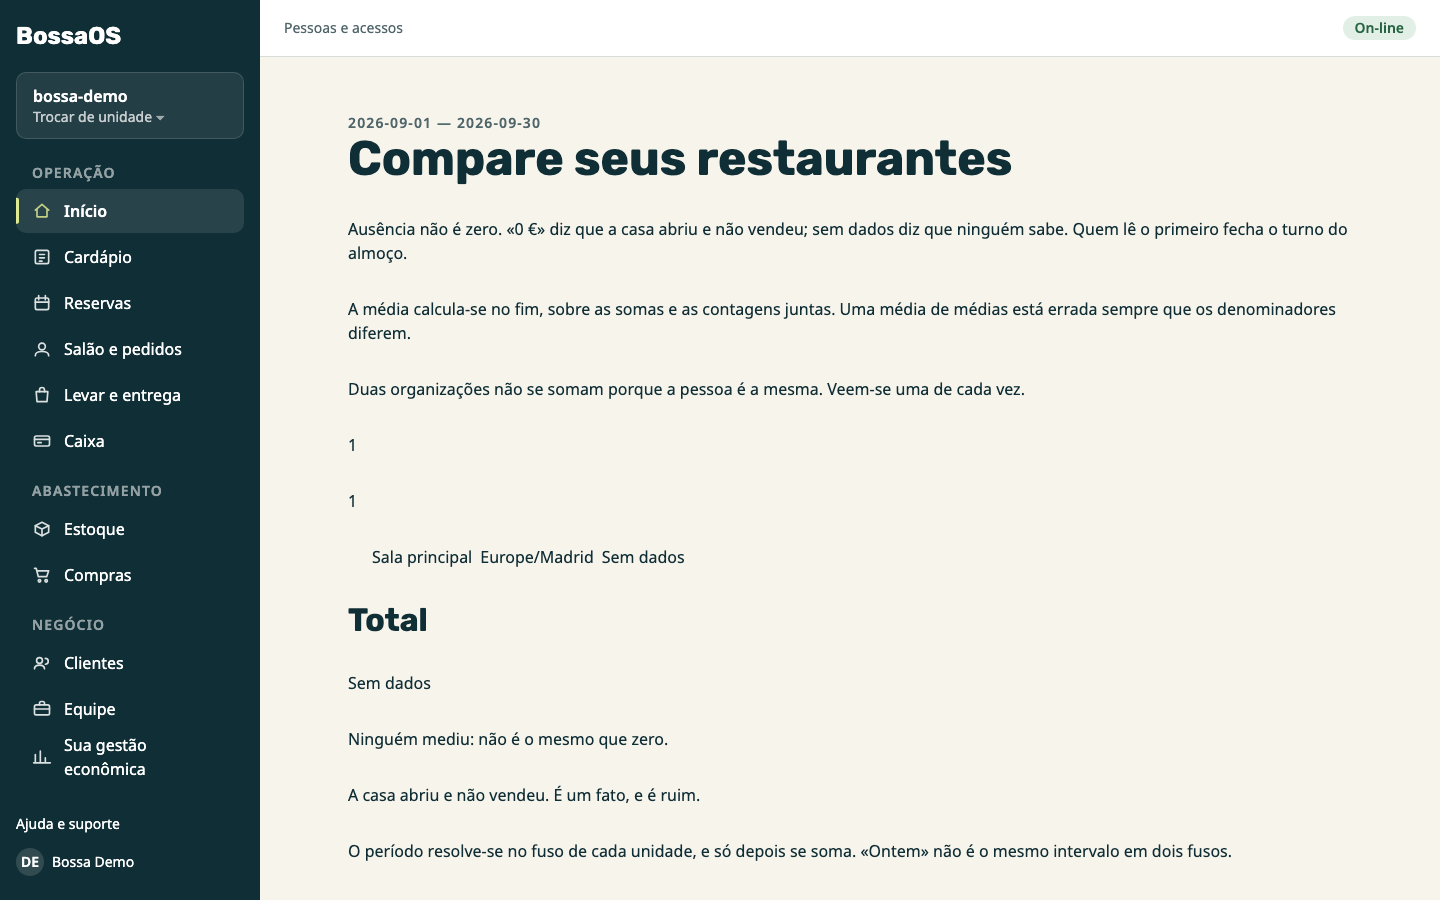
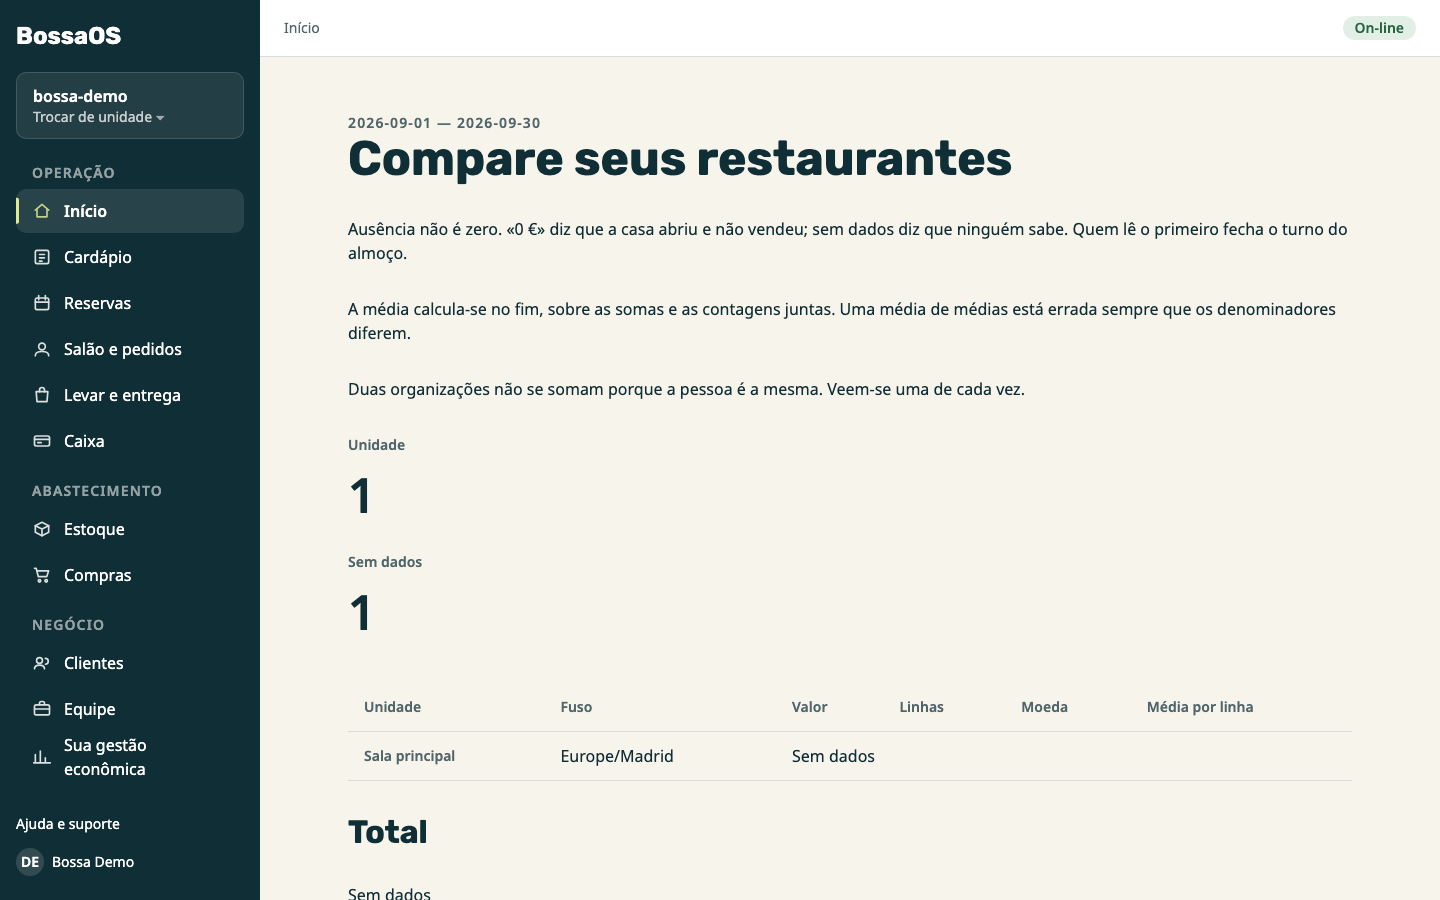
Auditoria (6): a area de conteudo passa a usar o que a casa ja tinha
Nada aqui e novo. O `.bo-tabela`, o `.bo-estado__numero` e o `.bo-estado__factos`
ja existem e ja sao usados noutros ecras; os rotulos `fuso`, `linhas`, `media` e
`moeda` ja estavam no dicionario. O que faltava era CHAMAR.

A tela mostrava nove `<p>` e `<span>` sem rotulo: «1», «1», e «Sala principal
Europe/Madrid Sin datos» em texto corrido. Passa a uma tabela com seis colunas
nomeadas — Unidad, Huso, Importe, Lineas, Moneda, Media por linea — e os totais
em factos com rotulo.

E a distincao que a regua poe em primeiro lugar sobrevive a mudanca: a linha sem
dados atravessa as quatro colunas com a frase inteira, em vez de as encher de
tracos que se leem como zeros. Ausencia e zero medido continuam a escrever-se
diferente.

## A migalha

Estava fixa em `m.pessoas.titulo` no layout: dizia «Personas y accesos» em TODAS
as rotas da organizacao, incluindo onde nao ha pessoa nenhuma. Um rotulo fixo num
sitio que existe para dizer onde se esta e pior do que nao haver rotulo — o vazio
nao engana ninguem.

Sai agora do mesmo sitio de onde sai o item aceso: a rota. Quando nenhum item
casa, cai no que o chamador passou.

  raiz       migalha «Inicio»
  catalogo   migalha «Catálogo»

Medido tambem: 1 tabela com os seis cabecalhos e 5 numeros com rotulo, onde
antes eram zero de cada.

Nao assino a minha revisao.

Claude-Session: https://claude.ai/code/session_01NBLb4xmcXVSfngcepm5hz6

diff --git a/apps/web/app/[idioma]/app/[orgSlug]/page.tsx b/apps/web/app/[idioma]/app/[orgSlug]/page.tsx
@@ -38,39 +38,76 @@ export default async function InicioDaOrganizacao({
       <p data-teste="denominador">{t.denominador}</p>
       <p data-teste="nao-consolida">{t.naoConsolida}</p>
 
-      <p data-teste="quantas-unidades">{b.unidades.length}</p>
-      <p data-teste="quantas-sem-dados">{semDados.length}</p>
+      {/* ── Os números com o nome do que são ────────────────────────────
+          Aqui estavam nove `<p>` e `<span>` sem rótulo: a tela mostrava «1»,
+          «1» e «Sala principal Europe/Madrid Sin datos» em texto corrido. Os
+          rótulos existiam no dicionário — `fuso`, `linhas`, `media`, `moeda` —
+          e ninguém os chamava, e a `.bo-tabela` e o `.bo-estado__numero` já são
+          usados noutros ecrãs. Nada disto é novo: o que faltava era usar. */}
+      <dl className="bo-estado__factos">
+        <div>
+          <dt className="bo-estado__rotulo">{t.unidade}</dt>
+          <dd className="bo-estado__numero" data-teste="quantas-unidades">{b.unidades.length}</dd>
+        </div>
+        <div>
+          <dt className="bo-estado__rotulo">{t.semDados}</dt>
+          <dd className="bo-estado__numero" data-teste="quantas-sem-dados">{semDados.length}</dd>
+        </div>
+      </dl>
 
-      <ul className="bo-lista bo-lista--colunas" data-teste="unidades">
-        {b.unidades.map((u) => (
-          <li key={u.locationId}>
-            <span data-teste="unidade">{u.nome}</span>
-            <span data-teste="fuso">{u.fuso}</span>
-            {/* ── Ausência e zero medido escrevem-se DIFERENTE ───────────
-                É o aceite que a régua põe em primeiro lugar: quem lê «0 €»
-                fecha o turno de almoço; se o que lá estava era «sem dados»,
-                fechou-o por engano. */}
-            {u.agregado.medido ? (
-              <>
-                <span data-teste="medido">{String(u.agregado.valor.somaMenor)}</span>
-                <span data-teste="linhas">{u.agregado.valor.contagem}</span>
-                <span data-teste="moeda">{u.agregado.valor.moeda}</span>
-                <span data-teste="media">{String(porLinhaMenor(u.agregado.valor))}</span>
-              </>
-            ) : (
-              <span data-teste="sem-dados">{t.semDados}</span>
-            )}
-          </li>
-        ))}
-      </ul>
+      <table className="bo-tabela" data-teste="unidades">
+        <thead>
+          <tr>
+            <th scope="col">{t.unidade}</th>
+            <th scope="col">{t.fuso}</th>
+            <th scope="col">{t.montante}</th>
+            <th scope="col">{t.linhas}</th>
+            <th scope="col">{t.moeda}</th>
+            <th scope="col">{t.media}</th>
+          </tr>
+        </thead>
+        <tbody>
+          {b.unidades.map((u) => (
+            <tr key={u.locationId}>
+              <th scope="row" data-teste="unidade">{u.nome}</th>
+              <td data-teste="fuso">{u.fuso}</td>
+              {/* ── Ausência e zero medido escrevem-se DIFERENTE ───────────
+                  É o aceite que a régua põe em primeiro lugar: quem lê «0 €»
+                  fecha o turno de almoço; se o que lá estava era «sem dados»,
+                  fechou-o por engano. A tabela não apaga a distinção: a linha
+                  sem dados atravessa as quatro colunas com a frase inteira, em
+                  vez de as encher de trações que se leem como zeros. */}
+              {u.agregado.medido ? (
+                <>
+                  <td data-teste="medido">{String(u.agregado.valor.somaMenor)}</td>
+                  <td data-teste="linhas">{u.agregado.valor.contagem}</td>
+                  <td data-teste="moeda">{u.agregado.valor.moeda}</td>
+                  <td data-teste="media">{String(porLinhaMenor(u.agregado.valor))}</td>
+                </>
+              ) : (
+                <td colSpan={4} data-teste="sem-dados">{t.semDados}</td>
+              )}
+            </tr>
+          ))}
+        </tbody>
+      </table>
 
       <h2>{t.total}</h2>
       {b.total.medido ? (
-        <>
-          <p data-teste="total-medido">{String(b.total.valor.somaMenor)}</p>
-          <p data-teste="total-linhas">{b.total.valor.contagem}</p>
-          <p data-teste="total-media">{String(porLinhaMenor(b.total.valor))}</p>
-        </>
+        <dl className="bo-estado__factos">
+          <div>
+            <dt className="bo-estado__rotulo">{t.montante}</dt>
+            <dd className="bo-estado__numero" data-teste="total-medido">{String(b.total.valor.somaMenor)}</dd>
+          </div>
+          <div>
+            <dt className="bo-estado__rotulo">{t.linhas}</dt>
+            <dd className="bo-estado__numero" data-teste="total-linhas">{b.total.valor.contagem}</dd>
+          </div>
+          <div>
+            <dt className="bo-estado__rotulo">{t.media}</dt>
+            <dd className="bo-estado__numero" data-teste="total-media">{String(porLinhaMenor(b.total.valor))}</dd>
+          </div>
+        </dl>
       ) : <p data-teste="total-sem-dados">{t.semDados}</p>}
       <p data-teste="sem-dados-explica">{t.semDadosExplica}</p>
       <p data-teste="zero-explica">{t.zeroExplica}</p>

diff --git a/packages/ui/src/estruturas/EstruturaAdmin.tsx b/packages/ui/src/estruturas/EstruturaAdmin.tsx
@@ -224,6 +224,20 @@ export function EstruturaAdmin({
   const estaActivaInferior = (l: { href?: string; activa?: boolean }) =>
     (l.activa !== undefined ? l.activa : l.href === alvoInferior);
 
+  /**
+   * A migalha é a SECÇÃO em que se está, e não um rótulo fixo.
+   *
+   * Estava `migalha={m.pessoas.titulo}` no layout: dizia «Pessoas e acessos» em
+   * todas as rotas da organização, incluindo naquelas onde não há pessoa
+   * nenhuma. Um rótulo fixo num sítio que existe para dizer onde se está é pior
+   * do que não haver rótulo — o vazio não engana ninguém.
+   *
+   * Sai do mesmo sítio de onde sai o item aceso: a rota. Quando nenhum item
+   * casa, cai no que o chamador passou, porque uma migalha em branco também não
+   * serve.
+   */
+  const migalhaDaRota = navegacao.find((l) => 'href' in l && l.href === alvoActivo)?.rotulo ?? migalha;
+
   const estaActiva = (l: LigacaoDeNavegacao) => {
     if (l.activa !== undefined) return l.activa; // o catálogo de desenho força
     return 'href' in l && l.href === alvoActivo;
@@ -259,7 +273,7 @@ export function EstruturaAdmin({
           <span className="bo-so-leitor">{rotuloTrocarUnidade}</span>
         </button>
 
-        <nav className="bo-admin__navegacao" aria-label={migalha}>
+        <nav className="bo-admin__navegacao" aria-label={migalhaDaRota}>
           {itensComGrupo.map(({ grupo, itens }, iG) => (
           <div key={grupo || `g${iG}`} className="bo-admin__grupo">
             {grupo ? <p className="bo-admin__grupo-titulo">{grupo}</p> : null}
@@ -309,7 +323,7 @@ export function EstruturaAdmin({
               <strong>{marca}</strong>
               <span className="bo-campo__ajuda">{unidade}</span>
             </span>
-            <span className="bo-campo__ajuda bo-admin__larga">{migalha}</span>
+            <span className="bo-campo__ajuda bo-admin__larga">{migalhaDaRota}</span>
           </div>
           {topoDireita ? <div style={{ display: 'flex', alignItems: 'center', gap: 12 }}>{topoDireita}</div> : null}
         </header>
